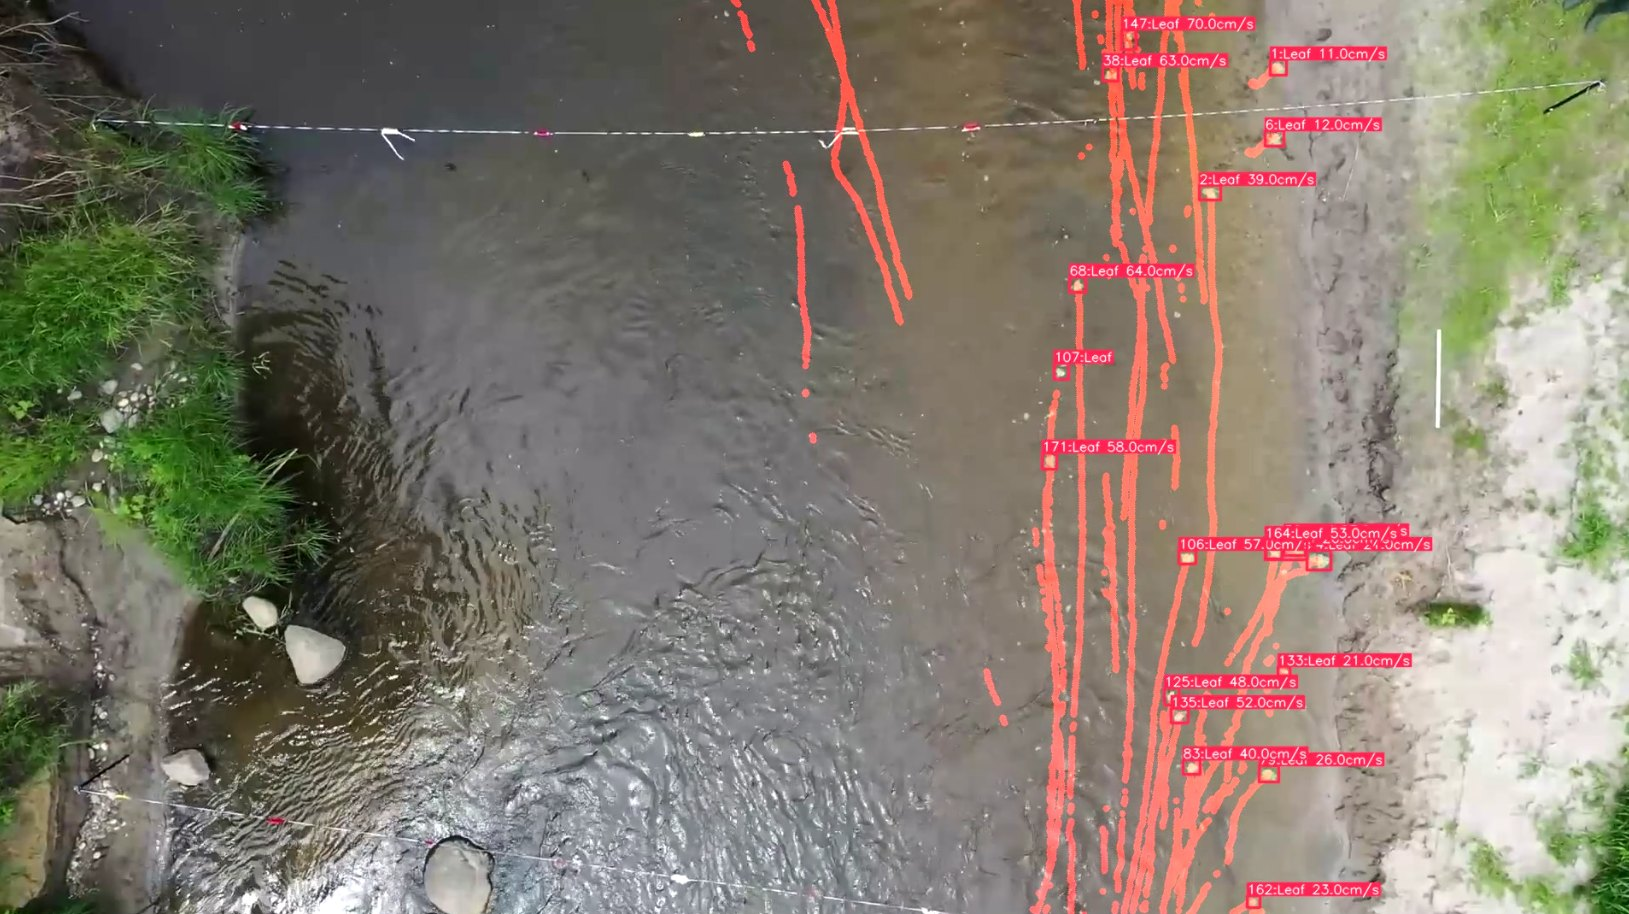
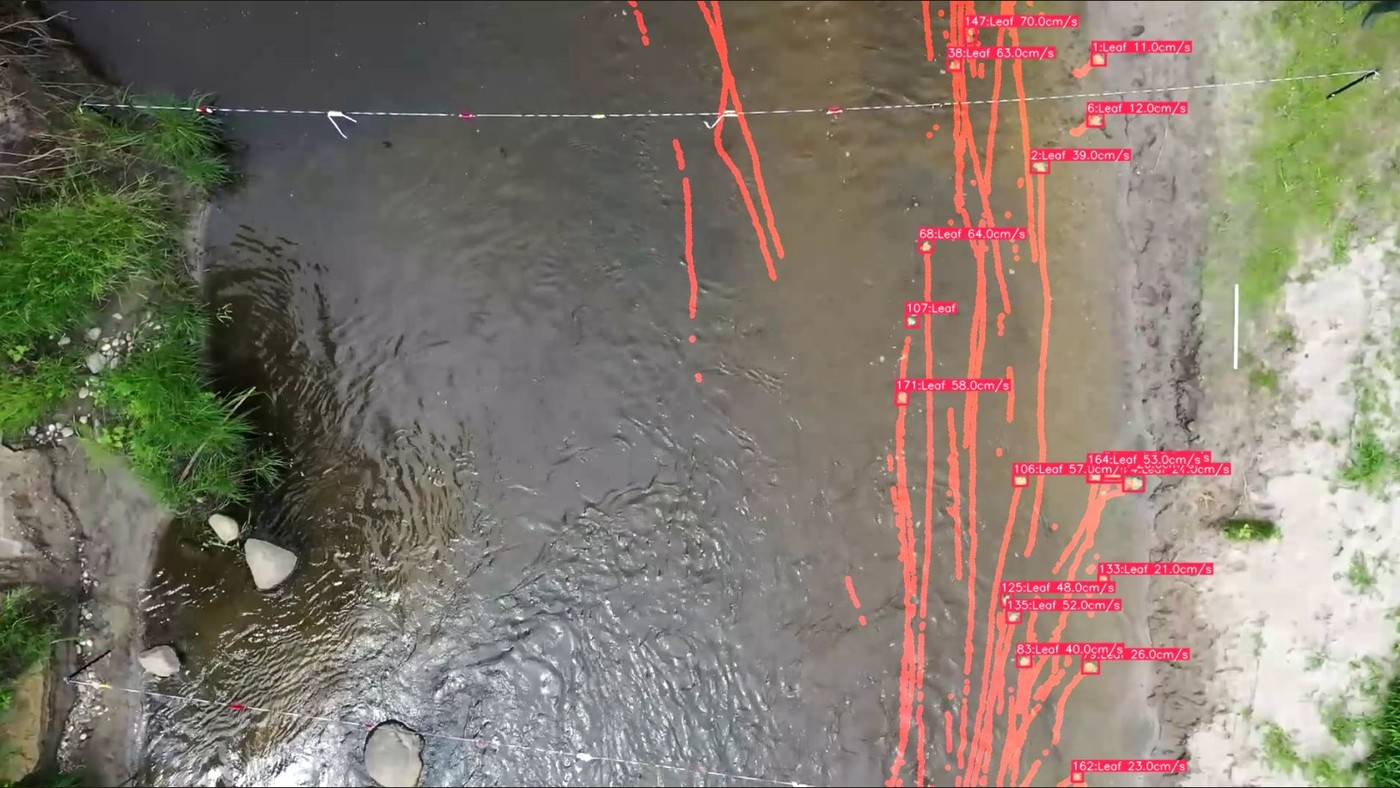
Apply the figure system to the UAV and YourEyes sections
Their eight figures ran from 1.15 to 1.87 in aspect and 889 to 2000 px wide.
All are now 16:9 at 1400 px, padded on each image's own background rather than
cropped, and laid out one per row at the shared column width. FIGURES.md records
the rule so the next section does not drift.

diff --git a/projects.html b/projects.html
@@ -24,7 +24,7 @@
 .kv{display:flex;gap:.8rem;flex-wrap:wrap;margin:.5rem 0 1rem;max-width:var(--col)}
 .kv a{font-family:'JetBrains Mono',monospace;font-size:.66rem;letter-spacing:.12em;text-transform:uppercase;border:1px solid var(--ink);color:var(--ink);padding:.55rem .9rem}
 .kv a:hover{background:var(--rust);border-color:var(--rust);color:var(--paper);text-decoration:none}
-.demorow{display:grid;grid-template-columns:minmax(0,1fr) 280px;gap:1.4rem;align-items:center;max-width:1000px;margin:1rem 0 1.2rem}
+.demorow{display:grid;grid-template-columns:minmax(0,1fr) 280px;gap:1.4rem;align-items:center;max-width:var(--col);margin:1rem 0 1.2rem}
 .demorow figure{background:#fff}
 .demorow video{width:100%;display:block;background:#000}
 @media (max-width:860px){.demorow{grid-template-columns:1fr}.demorow .vid{max-width:330px}}
@@ -115,12 +115,12 @@
 <p>Measuring how fast a river flows without putting an instrument in the water. A drone hovers over a reach and films the surface; natural tracers (leaves, foam, debris) are segmented and tracked frame to frame — each tracer gets a temporal mask, a bounding box, an ID and a velocity — and the resulting paths are converted from pixels to metres per second through the georeferenced orthomosaic. The output is a sparse surface-velocity field along the tracer trajectories.</p>
 <p><b>Why it matters:</b> the surface velocities feed a downstream pipeline (power-law / entropy conversion to depth-averaged velocity, then a physics-informed neural network) that inverts channel bathymetry from video alone, cross-checked against ADCP and ADV field measurements and a PIVlab particle-image-velocimetry run on the same footage.</p>
 <p class="figlab">Data</p>
-<div class="figs figs2">
+<div class="figs figs1">
   <figure><a class="lb" href="assets/uav/fig0_orthomosaic.jpg" data-cap="Top-down drone orthomosaic of the surveyed reach"><img src="assets/uav/fig0_orthomosaic.jpg" alt="Top-down drone orthomosaic of a river reach"></a><figcaption>Top-down drone orthomosaic of the surveyed reach — the georeference that turns pixel tracks into metres.</figcaption></figure>
   <figure><a class="lb" href="assets/uav/fig1_tracking_annot.jpg" data-cap="What the tracker outputs per tracer: temporal mask, bounding box, ID and velocity, in a frame-anchored coordinate system"><img src="assets/uav/fig1_tracking_annot.jpg" alt="Annotated frame showing a tracer's temporal mask, bounding box, ID, velocity and the coordinate origin"></a><figcaption>What the tracker outputs per tracer: a temporal mask and bounding box, an ID with velocity, and the path it leaves — all in a frame-anchored coordinate system.</figcaption></figure>
 </div>
 <p class="figlab">Results</p>
-<div class="figs">
+<div class="figs figs1">
   <figure><a class="lb" href="assets/uav/fig2_particle_tracking.jpg" data-cap="Tracked leaves with per-tracer surface velocity (cm/s) over a single frame"><img src="assets/uav/fig2_particle_tracking.jpg" alt="Drone frame with tracked leaf trajectories and per-tracer velocities in cm/s"></a><figcaption>Tracked leaves and their trajectories over one frame, each labelled with its surface velocity in cm/s.</figcaption></figure>
   <figure><a class="lb" href="assets/uav/fig3_pivlab.jpg" data-cap="PIVlab particle-image velocimetry on the same footage: vector field (green) and streamlines (yellow)"><img src="assets/uav/fig3_pivlab.jpg" alt="PIVlab vector field and streamlines on the same footage"></a><figcaption>Cross-check: PIVlab particle-image velocimetry on the same footage — vector field (green) and streamlines (yellow).</figcaption></figure>
   <figure><a class="lb" href="assets/uav/fig4_framework.jpg" data-cap="Project framework: field measurements → velocity evaluation → PINN → bathymetry inversion with uncertainty quantification"><img src="assets/uav/fig4_framework.jpg" alt="Framework diagram: field measurements, velocity evaluation, physics-informed neural network, flow dynamics"></a><figcaption>Where the tracking sits: field measurements → velocity evaluation → PINN → bathymetry inversion with uncertainty quantification.</figcaption></figure>
@@ -139,7 +139,7 @@
   <figure class="vid"><video controls preload="metadata" playsinline poster="assets/ye/demo-poster.jpg" src="assets/ye/demo.mp4"></video><figcaption class="playcta"><span class="go"><i>&#9654;</i> Play the demo</span><span class="sub">2:29 &middot; with sound &middot; walking the route on the left</span></figcaption></figure>
 </div>
 <p class="figlab">How it works</p>
-<div class="figs figs2">
+<div class="figs figs1">
   <figure><a class="lb" href="assets/ye/anchor-graph.jpg" data-cap="The third floor as a graph: anchor nodes (purple) where reference photographs were taken, joined by the walkable edges between them"><img src="assets/ye/anchor-graph.jpg" alt="Third-floor building plan overlaid with anchor nodes and the walkable edges connecting them"></a><figcaption>The floor as a graph: anchor nodes where reference photographs were taken, joined by the walkable edges between them.</figcaption></figure>
   <figure><a class="lb" href="assets/ye/system-design.jpg" data-cap="The phone talks to a FastAPI service backed by PostgreSQL for embeddings and MinIO for the reference images"><img src="assets/ye/system-design.jpg" alt="Architecture diagram: a Swift iPhone app talking to FastAPI, PostgreSQL and MinIO running in Docker"></a><figcaption>The Swift app talks to a FastAPI service backed by PostgreSQL for the embeddings and MinIO for the reference images.</figcaption></figure>
 </div>

diff --git a/FIGURES.md b/FIGURES.md
@@ -1,0 +1,48 @@
+# Figure rules for this site
+
+One system, so a project page reads as one page rather than a scrapbook.
+
+## Sizes
+
+| | value |
+|---|---|
+| aspect | **16:9**, every figure in a section, no exceptions |
+| served width | **1400 px** (2× the display width, for retina) |
+| display width | `max-width: var(--col)` = **52rem** — the same cap as the prose, so text and images share one column edge |
+| layout | **one figure per row** (`<div class="figs figs1">`) |
+| format | photographs and image panels → JPEG q90 · charts and diagrams → PNG |
+| card image | **1600×853** with `class="tall"` (the `.rcard img.tall` box) |
+
+`--col` is declared once on `.proj`. Change it there and prose, figures and the
+link row all follow.
+
+## Figures you generate
+
+Plot them at **7.2 in × 4.05 in** (183 mm, double-column journal width) at 300 dpi
+→ 2160×1215, then downscale to 1400. Never `bbox_inches="tight"`: it gives every
+figure different margins. Full rules: `FM_filament/docs/FIGURE_STANDARD.md`.
+
+## Figures you cannot re-plot
+
+Screenshots, drone frames, diagrams from elsewhere: **pad** to 16:9 on the
+image's **own** background colour (sample the corners), then resize to 1400 wide.
+**Never crop** — cropping deletes content the figure was chosen for. Padding on
+the page ground instead of the image's own leaves visible bands whenever the
+figure has a dark background.
+
+## Captions
+
+- Carry only what the image cannot show: the control, and the conclusion.
+  Anything the figure already prints — bar values, axis titles, totals — is
+  redundant.
+- No protocol detail (seeds, folds, splits). If the error bars need defining,
+  define them **inside** the figure.
+- `0.92rem` in the body face, not monospace.
+- Captions that sit side by side get one template and matching length.
+
+## Checklist
+
+1. Every image in the section reports the same aspect (script it, don't eyeball).
+2. Text and figures end at the same right edge.
+3. Card is 1600×853 and the `<img>` carries `class="tall"`.
+4. Caption says nothing the figure already says.
